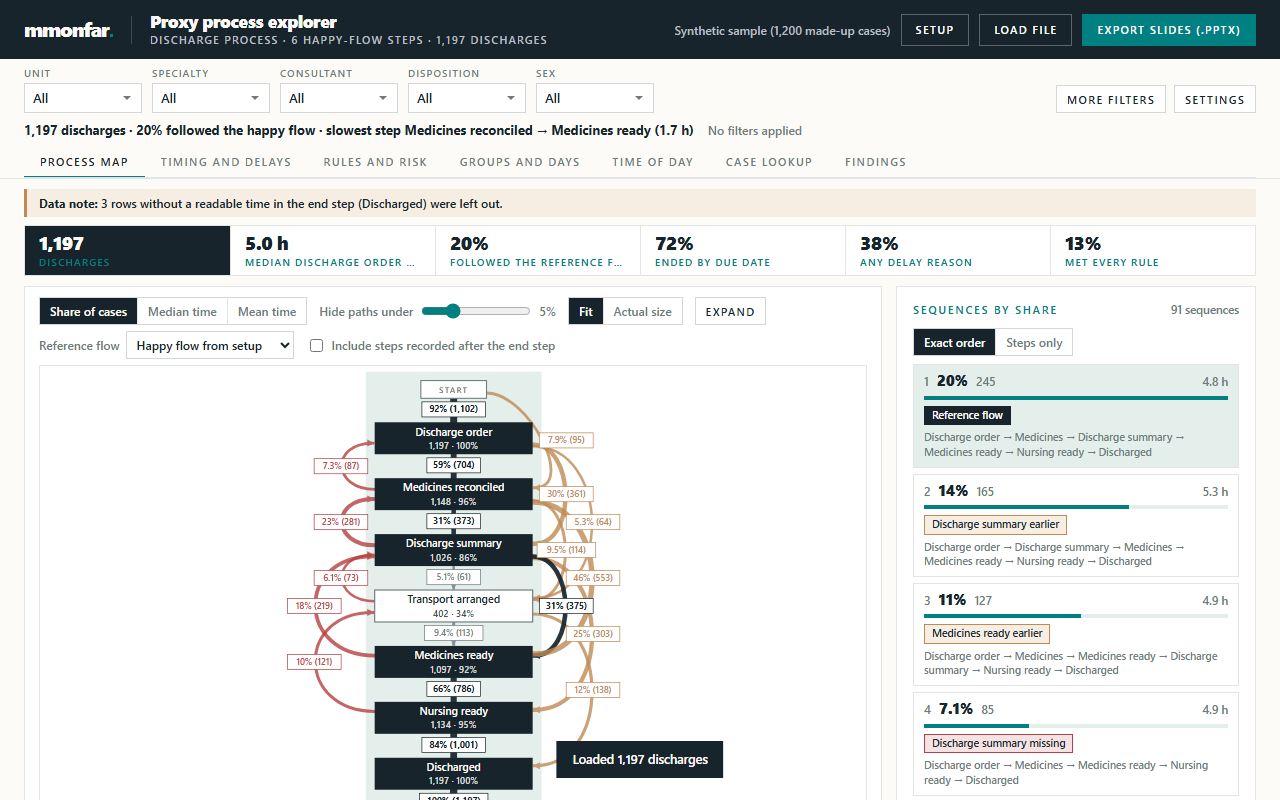
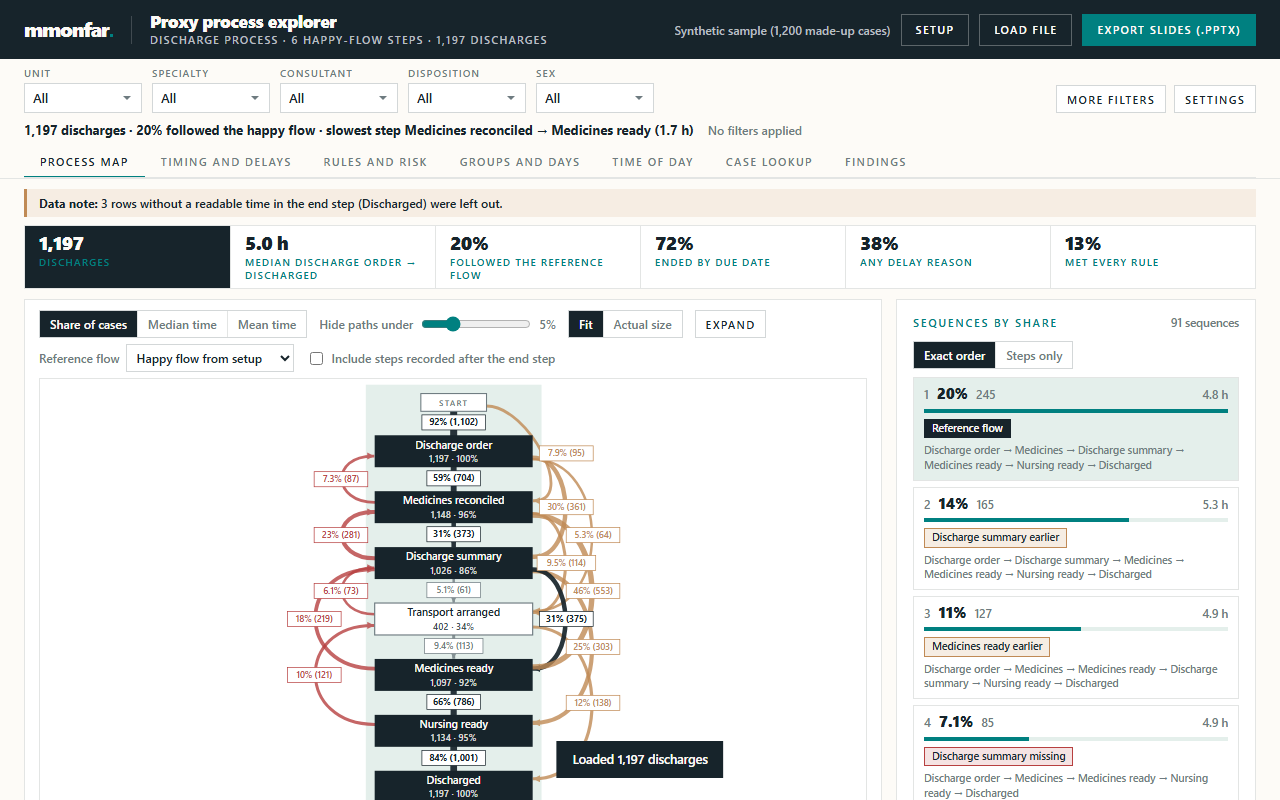
KPI labels wrap instead of clipping

Changed region(s): [[0.0, 0.3438, 0.9688, 1.0]]

diff --git a/dist/process_explorer.html b/dist/process_explorer.html
@@ -125,7 +125,7 @@ main{padding:14px 24px 40px;max-width:1720px;margin:0 auto}
 
 /* KPIs and tabs */
 .kpis{display:grid;grid-template-columns:repeat(6,minmax(0,1fr));background:var(--white);border:1px solid var(--rule);margin-bottom:10px}
-.kpi span{overflow:hidden;text-overflow:ellipsis;white-space:nowrap}
+.kpi span{overflow-wrap:anywhere;white-space:normal;min-height:2.6em}
 .kpi{padding:6px 14px;border-left:1px solid var(--rule)}
 .kpi:first-child{border-left:0;background:var(--canvas);color:var(--cream)}
 .kpi b{display:block;font:800 19px/1.15 var(--fD);letter-spacing:-.03em;color:var(--ink)}
@@ -262,7 +262,7 @@ body.has-app .privacy{display:none}
  .top .sub,.top .file{display:none}
  .top{gap:8px}
  .kpis{display:flex;overflow-x:auto}
- .kpi{flex:0 0 138px}
+ .kpi{flex:0 0 150px}
  .empty{margin-top:5vh}.empty h2{font-size:27px}
  .tabs button{padding:10px 12px}
  .pop{width:min(300px,86vw)}

diff --git a/src/styles.css b/src/styles.css
@@ -117,7 +117,7 @@ main{padding:14px 24px 40px;max-width:1720px;margin:0 auto}
 
 /* KPIs and tabs */
 .kpis{display:grid;grid-template-columns:repeat(6,minmax(0,1fr));background:var(--white);border:1px solid var(--rule);margin-bottom:10px}
-.kpi span{overflow:hidden;text-overflow:ellipsis;white-space:nowrap}
+.kpi span{overflow-wrap:anywhere;white-space:normal;min-height:2.6em}
 .kpi{padding:6px 14px;border-left:1px solid var(--rule)}
 .kpi:first-child{border-left:0;background:var(--canvas);color:var(--cream)}
 .kpi b{display:block;font:800 19px/1.15 var(--fD);letter-spacing:-.03em;color:var(--ink)}
@@ -254,7 +254,7 @@ body.has-app .privacy{display:none}
  .top .sub,.top .file{display:none}
  .top{gap:8px}
  .kpis{display:flex;overflow-x:auto}
- .kpi{flex:0 0 138px}
+ .kpi{flex:0 0 150px}
  .empty{margin-top:5vh}.empty h2{font-size:27px}
  .tabs button{padding:10px 12px}
  .pop{width:min(300px,86vw)}
